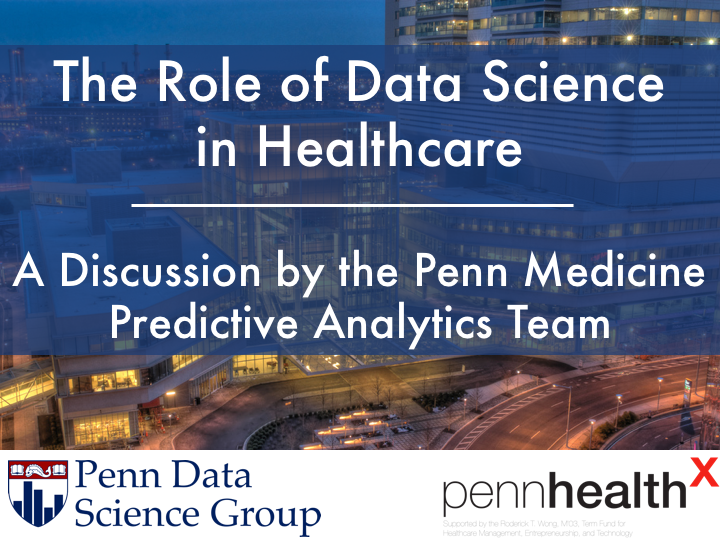
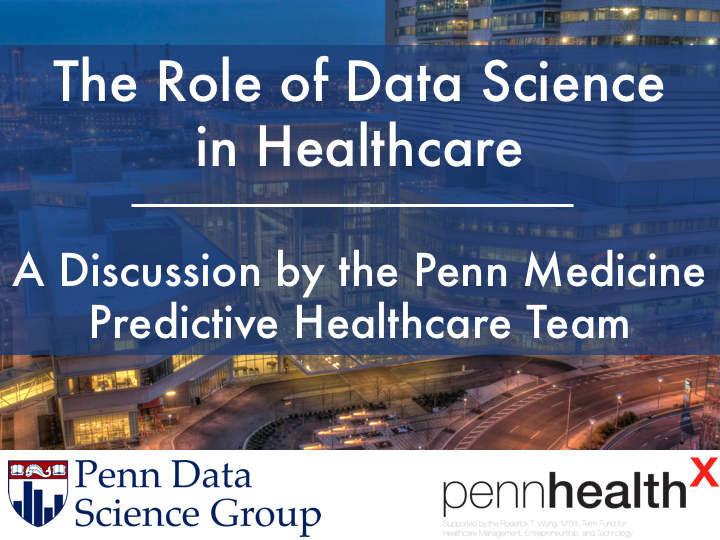
Site updated on Mon Feb 20 21:36:42 EST 2017

Changed region(s): [[0.1222, 0.563, 0.8861, 0.6519]]

diff --git a/events/data-science-in-healthcare/index.html b/events/data-science-in-healthcare/index.html
@@ -135,7 +135,7 @@
         <div class="col-sm-7">
           <h3><i>Friday, 2/24/2017, 4:00-5:30 PM</i></h3>
           <h3><i>Law Auditorium, Jordan Medical Education Center, 3400 Civic Center Blvd</i></h3>
-          <h4>Have you ever wondered how data analytics can improve healthcare? Come meet data scientists from the Penn Medicine Predictive Analytics team, developers of the award-winning Penn Signals platform, and learn how their work helps improve patient health and wellness. The Penn Medicine Predictive Analytics team will give a talk at 4:00. We will hold a reception with light catered food outside the auditorium afterwards. RSVP here: <a href="https://goo.gl/forms/2qsYJs5BchkZ6EGS2">https://goo.gl/forms/2qsYJs5BchkZ6EGS2</a></h4>
+          <h4>Have you ever wondered how data analytics can improve healthcare? Come meet data scientists from the Penn Medicine Predictive Healthcare team, developers of the award-winning Penn Signals platform, and learn how their work helps improve patient health and wellness. The Penn Medicine Predictive Healthcare team will give a talk at 4:00. We will hold a reception with light catered food outside the auditorium afterwards. RSVP here: <a href="https://goo.gl/forms/2qsYJs5BchkZ6EGS2">https://goo.gl/forms/2qsYJs5BchkZ6EGS2</a></h4>
         </div>
       </div>
       

diff --git a/events/index.html b/events/index.html
@@ -160,7 +160,7 @@
           <h4><i>Friday, 2/24/2017, 4:00-5:30 PM</i></h4>
           <h4><i>Law Auditorium, Jordan Medical Education Center, 3400 Civic Center Blvd</i></h4>
           <div class="smallhead">
-            Have you ever wondered how data analytics can improve healthcare? Come meet data scientists from the Penn Medicine Predictive Analytics team, developers of the award-winning Penn Signals platform, and learn how their work helps improve patient health and wellness. The Penn Medicine Predictive Analytics team will give a talk at 4:00. We will hold a reception with light catered food outside the auditorium afterwards. RSVP here: <a href="https://goo.gl/forms/2qsYJs5BchkZ6EGS2">https://goo.gl/forms/2qsYJs5BchkZ6EGS2</a>
+            Have you ever wondered how data analytics can improve healthcare? Come meet data scientists from the Penn Medicine Predictive Healthcare team, developers of the award-winning Penn Signals platform, and learn how their work helps improve patient health and wellness. The Penn Medicine Predictive Healthcare team will give a talk at 4:00. We will hold a reception with light catered food outside the auditorium afterwards. RSVP here: <a href="https://goo.gl/forms/2qsYJs5BchkZ6EGS2">https://goo.gl/forms/2qsYJs5BchkZ6EGS2</a>
           </div>
         </div>
       </div>
